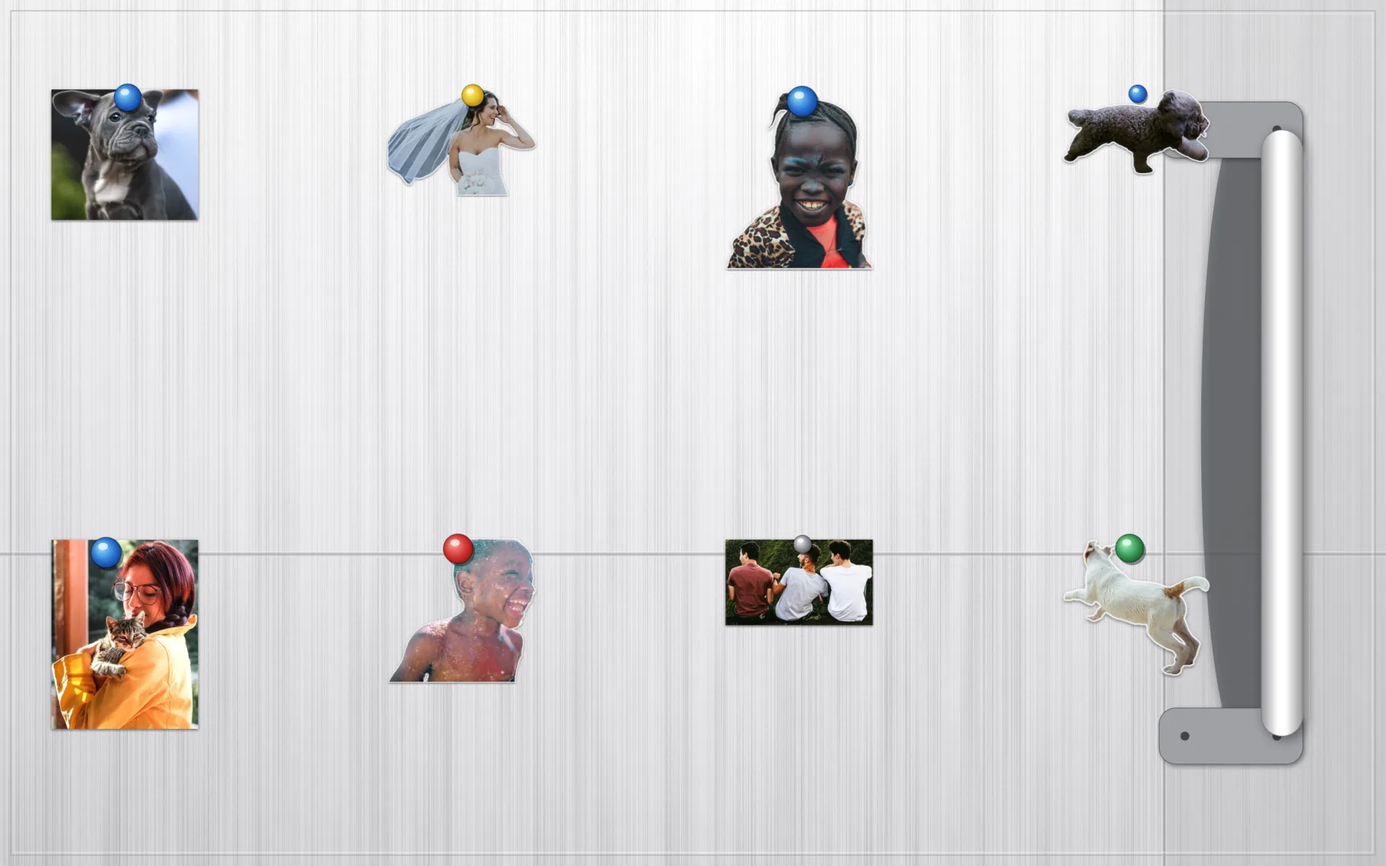
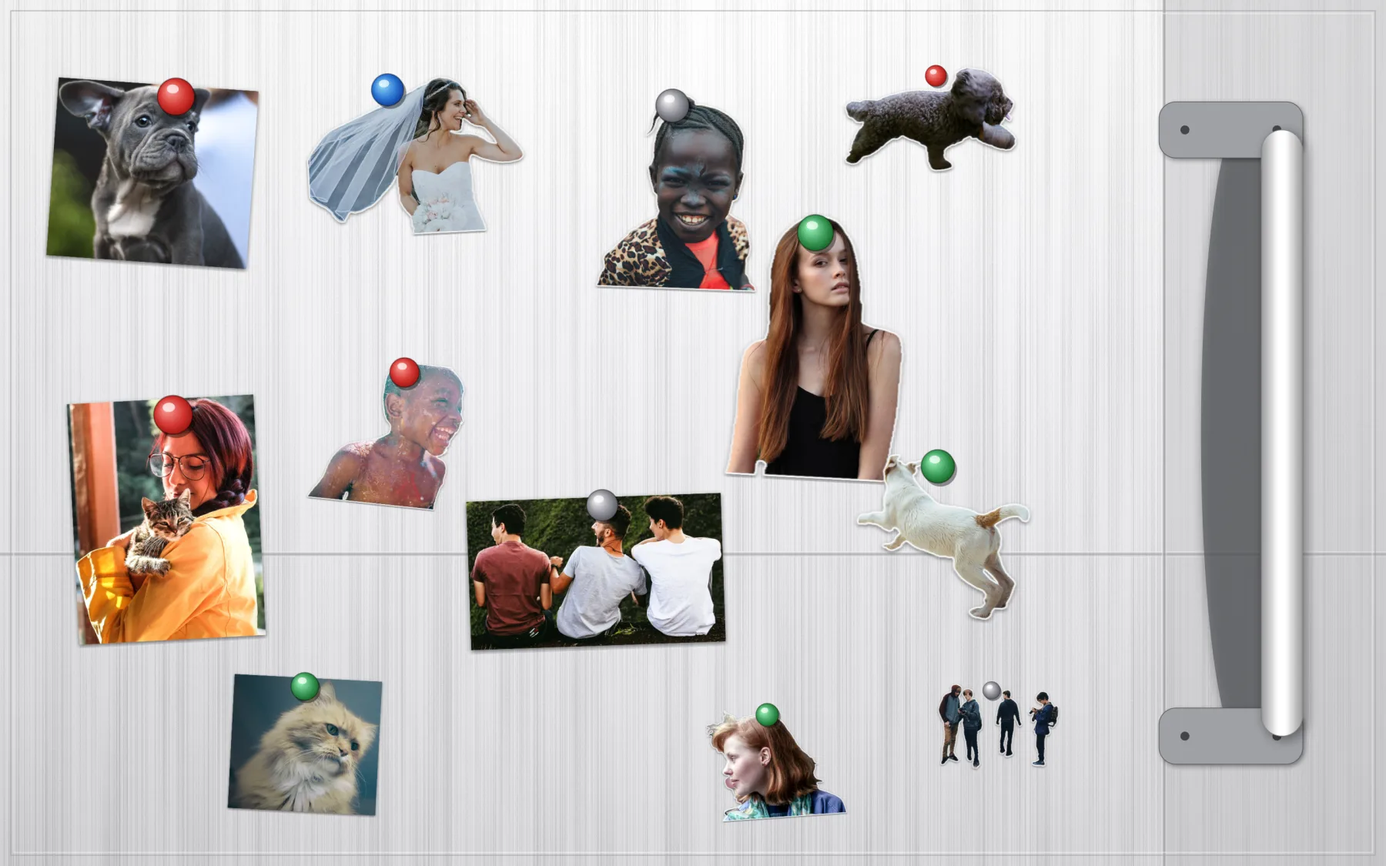
Ideas: corkboard example, free and tidy fridge, fuller month calendar, wider gallery

diff --git a/corkboard-wallpaper.html b/corkboard-wallpaper.html
@@ -1,0 +1,147 @@
+<!doctype html>
+<html lang="en">
+<head>
+  <meta charset="utf-8">
+  <meta name="viewport" content="width=device-width, initial-scale=1">
+  <title>Corkboard Photo Wallpaper for Mac · Sticta</title>
+  <meta name="description" content="Pin your photos on a cork board on your Mac desktop: pushpins, loose overlapping prints and a wooden frame.">
+  <link rel="canonical" href="https://sticta.app/corkboard-wallpaper">
+  <meta property="og:type" content="website">
+  <meta property="og:site_name" content="Sticta">
+  <meta property="og:url" content="https://sticta.app/corkboard-wallpaper">
+  <meta property="og:title" content="Corkboard Photo Wallpaper for Mac · Sticta">
+  <meta property="og:description" content="Pin your photos on a cork board on your Mac desktop: pushpins, loose overlapping prints and a wooden frame.">
+  <meta property="og:image" content="https://sticta.app/assets/ideas/corkboard.webp">
+  <meta property="og:image:width" content="1800">
+  <meta property="og:image:height" content="1125">
+  <meta property="og:image:alt" content="How to make a corkboard photo wallpaper for your Mac">
+  <meta name="twitter:card" content="summary_large_image">
+  <meta name="twitter:creator" content="@maticzechowskii">
+  <meta name="theme-color" content="#D9D3C4" media="(prefers-color-scheme: light)">
+  <meta name="theme-color" content="#17191D" media="(prefers-color-scheme: dark)">
+  <link rel="icon" type="image/png" href="assets/favicon.png">
+  <link rel="apple-touch-icon" href="assets/icon.png">
+  <link rel="preload" href="assets/YoungSerif-Regular.ttf" as="font" type="font/ttf" crossorigin>
+  <link rel="stylesheet" href="style.css?v=9afdb72a">
+  <script type="application/ld+json">
+  {"@context": "https://schema.org", "@type": "Article", "headline": "How to make a corkboard photo wallpaper for your Mac", "description": "Pin your photos on a cork board on your Mac desktop: pushpins, loose overlapping prints and a wooden frame.", "image": "https://sticta.app/assets/ideas/corkboard.webp", "datePublished": "2026-10-13", "author": {"@type": "Person", "name": "Mateusz Czechowski", "url": "https://mateuszczechowski.github.io/"}, "mainEntityOfPage": "https://sticta.app/corkboard-wallpaper"}
+  </script>
+<!-- Page Pulse (privacy-friendly: no cookies, no localStorage/sessionStorage, no persistent visitor ID) -->
+<script>
+(function(){
+  if(window.self!==window.top)return;
+  var pid="4a3903d2-e4a1-46b0-a912-f2eba5350eb7";
+  var tk="bcec4612-bca1-4c6a-8962-24d3207e521b";
+  var ep="https://esnubozrjxrbegatzusu.supabase.co/functions/v1/track";
+  var sid=Math.random().toString(36).slice(2);
+  function send(t,n){
+    fetch(ep,{method:"POST",headers:{"Content-Type":"application/json"},
+      body:JSON.stringify({page_id:pid,token:tk,url:location.href,referrer:document.referrer,
+        user_agent:navigator.userAgent,screen_width:screen.width,
+        session_id:sid,visitor_id:sid,event_type:t,element_name:n||null}),keepalive:true});
+  }
+  send("pageview");
+  document.addEventListener("click",function(e){
+    var el=e.target.closest("a,button,[role='button'],input[type='submit']");
+    if(!el)return;
+    var name=el.getAttribute("data-pp")||el.innerText||el.getAttribute("aria-label")||el.tagName;
+    if(name)send("click",name.trim().substring(0,100));
+  });
+  setInterval(function(){if(!document.hidden)send("ping");},15000);
+  var _v={cls:0,inp:0};
+  try{
+    if(window.PerformanceObserver){
+      try{new PerformanceObserver(function(l){var e=l.getEntries();if(e.length)_v.lcp=Math.round(e[e.length-1].startTime);}).observe({type:"largest-contentful-paint",buffered:true});}catch(e){}
+      try{new PerformanceObserver(function(l){l.getEntries().forEach(function(e){if(!e.hadRecentInput)_v.cls+=e.value;});}).observe({type:"layout-shift",buffered:true});}catch(e){}
+      try{new PerformanceObserver(function(l){l.getEntries().forEach(function(e){if(e.duration>_v.inp)_v.inp=Math.round(e.duration);});}).observe({type:"event",buffered:true,durationThreshold:40});}catch(e){}
+    }
+  }catch(e){}
+  function flushVitals(){
+    if(_v._sent)return;_v._sent=1;
+    try{var nt=performance.getEntriesByType&&performance.getEntriesByType("navigation")[0];if(nt&&nt.loadEventEnd)_v.load=Math.round(nt.loadEventEnd);}catch(e){}
+    var payload={page_id:pid,token:tk,url:location.href,session_id:sid,event_type:"vitals",vitals:{lcp:_v.lcp||null,cls:_v.cls?Math.round(_v.cls*1000)/1000:null,inp:_v.inp||null,load_time:_v.load||null,device_type:(screen.width&&screen.width<768)?"mobile":"desktop"}};
+    try{navigator.sendBeacon(ep,new Blob([JSON.stringify(payload)],{type:"application/json"}));}catch(e){}
+  }
+  addEventListener("visibilitychange",function(){if(document.visibilityState==="hidden")flushVitals();});
+  addEventListener("pagehide",flushVitals);
+})();
+</script>
+</head>
+<body>
+
+<header class="topbar">
+  <nav class="topbar-inner" aria-label="Main">
+    <a class="brand" href="./"><img src="assets/icon.png" alt=""><span>Sticta</span></a>
+    <a class="pill hide-sm" href="./#features">Features</a>
+    <a class="pill hide-sm" href="ideas">Ideas</a>
+    <a class="pill hide-sm" href="./#pricing">Pricing</a>
+    <a class="pill hide-sm" href="support">Support</a>
+    <a class="pill" href="privacy">Privacy</a>
+    <a class="pill cta" href="https://apps.apple.com/app/id6815226547">Download</a>
+    <details class="navmenu">
+      <summary aria-label="Menu"><span></span></summary>
+      <div class="navmenu-panel" onclick="if (event.target.closest('a')) this.parentNode.open = false"><a href="./#features">Features</a><a href="ideas">Ideas</a><a href="./#pricing">Pricing</a><a href="support">Support</a><a href="privacy">Privacy</a></div>
+    </details>
+  </nav>
+</header>
+
+<main>
+  <div class="wrap">
+    <article class="sheet guide" style="margin-top:48px">
+      <span class="tape l"></span><span class="tape r"></span>
+      <p class="meta">Sticta · <a href="ideas">wallpaper ideas</a></p>
+      <h1>How to make a corkboard photo wallpaper for your Mac</h1>
+      <p class="tldr"><strong>In short:</strong> Choose the Corkboard style on the Canvas and drop in your photos. Each one is held by a pushpin and sits a little askew, like a real board in a hallway.</p>
+
+      <div class="clause"><span class="n">01</span><div>
+        <h3>What you end up with</h3>
+        <p>A cork board with a wooden frame in place of your desktop, covered with photos held by coloured pushpins. Cut-outs and prints overlap and sit slightly crooked, because a real board is never tidy.</p>
+        <img class="guide-shot" src="assets/ideas/corkboard.webp" alt="Mac wallpaper made as a cork board with photo stickers and prints held by coloured pushpins" width="1800" height="1125">
+      </div></div>
+
+      <div class="clause"><span class="n">02</span><div>
+        <h3>Make it in Sticta</h3>
+        <ol>
+          <li>Create a project and open the <strong>Canvas</strong>.</li>
+          <li>Pick the <strong>Corkboard</strong> style. Change the look with <strong>Cork tone</strong> and <strong>Frame color</strong>.</li>
+          <li>Drag your photos in. Each sticker gets a pushpin.</li>
+          <li>Drag stickers around, make them bigger or smaller and let some overlap. There is no grid on a corkboard.</li>
+          <li>Click <strong>Set as Wallpaper</strong>.</li>
+        </ol>
+      </div></div>
+
+      <div class="clause"><span class="n">03</span><div>
+        <h3>Mix cut-outs and prints</h3>
+        <p>Want a different look? Select a sticker and pick a style in the inspector: <strong>Classic</strong> (cut-out with an outline), <strong>Polaroid</strong>, <strong>Original photo</strong> (the photo as it was taken, no cut-out) or <strong>Clean cut</strong>. Mixing styles makes a wallpaper feel less uniform.</p><p>On a corkboard, <strong>Original photo</strong> looks like a print pinned to the board and a cut-out like a sticker. The example mixes about half and half.</p>
+      </div></div>
+
+      <div class="clause"><span class="n">04</span><div>
+        <h3>Add a clothesline</h3>
+        <p>A <a href="clothesline-photo-wallpaper">clothesline</a> works on a corkboard too: switch on <strong>Clothesline</strong> in the canvas settings and hang a few photos from it between the pinned ones.</p>
+      </div></div>
+
+      <div class="clause"><span class="n">05</span><div>
+        <h3>Private by design</h3>
+        <p>Sticta never connects to the internet and your photos never leave your Mac. <a href="privacy">Privacy policy</a>.</p>
+      </div></div>
+
+      <div class="actions">
+        <a class="btn" href="https://apps.apple.com/app/id6815226547">Download Sticta on the Mac App Store</a>
+        <a class="btn ghost" href="ideas">More wallpaper ideas</a>
+      </div>
+      <p class="press-note">Free to download · Sticta Unlimited is a one-time purchase · Mac with Apple silicon, macOS 14 or later</p>
+      <p class="press-note">The photos in this example are free CC0 pictures, see <a href="https://github.com/mateuszczechowski/sticta-support/blob/main/assets/home/CREDITS.md">credits</a>.</p>
+    </article>
+  </div>
+</main>
+
+<footer>
+  <div class="wrap foot">
+    <span class="display">Sticta</span>
+    <span>© 2026 <a href="https://mateuszczechowski.github.io/">Mateusz Czechowski</a> · <a href="https://mateuszczechowski.github.io/">More apps by me →</a> · <a href="support">Support</a> · <a href="privacy">Privacy</a> · <a href="press">Press</a> · <a href="mailto:sticta@proton.me">sticta@proton.me</a></span>
+    <a class="fine" href="giveaway">Beta giveaway rules</a>
+  </div>
+</footer>
+
+</body>
+</html>

diff --git a/ideas.html b/ideas.html
@@ -4,13 +4,13 @@
   <meta charset="utf-8">
   <meta name="viewport" content="width=device-width, initial-scale=1">
   <title>Mac Wallpaper Ideas from Your Photos · Sticta</title>
-  <meta name="description" content="Ideas for photo wallpapers on your Mac, each with a step-by-step guide: world map, fridge, calendar, year grid and clothesline.">
+  <meta name="description" content="Ideas for photo wallpapers on your Mac, each with a step-by-step guide: world map, fridge, calendar, year grid, corkboard and clothesline.">
   <link rel="canonical" href="https://sticta.app/ideas">
   <meta property="og:type" content="website">
   <meta property="og:site_name" content="Sticta">
   <meta property="og:url" content="https://sticta.app/ideas">
   <meta property="og:title" content="Mac Wallpaper Ideas from Your Photos · Sticta">
-  <meta property="og:description" content="Ideas for photo wallpapers on your Mac, each with a step-by-step guide: world map, fridge, calendar, year grid and clothesline.">
+  <meta property="og:description" content="Ideas for photo wallpapers on your Mac, each with a step-by-step guide: world map, fridge, calendar, year grid, corkboard and clothesline.">
   <meta property="og:image" content="https://sticta.app/assets/ideas/world-map.webp">
   <meta property="og:image:width" content="1800">
   <meta property="og:image:height" content="1125">
@@ -22,9 +22,9 @@
   <link rel="icon" type="image/png" href="assets/favicon.png">
   <link rel="apple-touch-icon" href="assets/icon.png">
   <link rel="preload" href="assets/YoungSerif-Regular.ttf" as="font" type="font/ttf" crossorigin>
-  <link rel="stylesheet" href="style.css?v=ddfabefe">
+  <link rel="stylesheet" href="style.css?v=9afdb72a">
   <script type="application/ld+json">
-  {"@context": "https://schema.org", "@type": "CollectionPage", "headline": "Wallpaper ideas you can make with Sticta", "description": "Ideas for photo wallpapers on your Mac, each with a step-by-step guide: world map, fridge, calendar, year grid and clothesline.", "image": "https://sticta.app/assets/ideas/world-map.webp", "datePublished": "2026-10-13", "author": {"@type": "Person", "name": "Mateusz Czechowski", "url": "https://mateuszczechowski.github.io/"}, "mainEntityOfPage": "https://sticta.app/ideas"}
+  {"@context": "https://schema.org", "@type": "CollectionPage", "headline": "Wallpaper ideas you can make with Sticta", "description": "Ideas for photo wallpapers on your Mac, each with a step-by-step guide: world map, fridge, calendar, year grid, corkboard and clothesline.", "image": "https://sticta.app/assets/ideas/world-map.webp", "datePublished": "2026-10-13", "author": {"@type": "Person", "name": "Mateusz Czechowski", "url": "https://mateuszczechowski.github.io/"}, "mainEntityOfPage": "https://sticta.app/ideas"}
   </script>
 <!-- Page Pulse (privacy-friendly: no cookies, no localStorage/sessionStorage, no persistent visitor ID) -->
 <script>
@@ -86,12 +86,12 @@
 </header>
 
 <main>
-  <div class="wrap">
-    <article class="sheet guide" style="margin-top:48px">
+  <div class="wrap wide">
+    <article class="sheet guide wide" style="margin-top:48px">
       <span class="tape l"></span><span class="tape r"></span>
       <p class="meta">Sticta · ideas</p>
       <h1>Wallpaper ideas you can make with Sticta</h1>
-      <p class="tldr"><strong>In short:</strong> Five wallpapers made with Sticta from free CC0 photos, each with the steps to make it yourself. Pick one, open Sticta and follow along.</p>
+      <p class="tldr"><strong>In short:</strong> Six wallpapers made with Sticta from free CC0 photos, each with the steps to make it yourself. Pick one, open Sticta and follow along.</p>
       <div class="ideas-grid">
         <a class="idea" href="world-map-wallpaper">
           <img src="assets/ideas/world-map.webp" alt="World map wallpaper made with Sticta" width="1800" height="1125" loading="lazy">
@@ -116,6 +116,12 @@
           <span class="idea-name">Year at a glance</span>
           <span class="idea-line">Twelve months, one grid, a photo in each.</span>
           <span class="idea-where">Timeline · Year</span>
+        </a>
+        <a class="idea" href="corkboard-wallpaper">
+          <img src="assets/ideas/corkboard.webp" alt="Corkboard wallpaper made with Sticta" width="1800" height="1125" loading="lazy">
+          <span class="idea-name">Corkboard</span>
+          <span class="idea-line">Loose prints and cut-outs held by pushpins.</span>
+          <span class="idea-where">Canvas · Corkboard</span>
         </a>
         <a class="idea" href="clothesline-photo-wallpaper">
           <img src="assets/ideas/clothesline.webp" alt="Clothesline wallpaper made with Sticta" width="1800" height="1125" loading="lazy">

diff --git a/fridge-wallpaper.html b/fridge-wallpaper.html
@@ -22,7 +22,7 @@
   <link rel="icon" type="image/png" href="assets/favicon.png">
   <link rel="apple-touch-icon" href="assets/icon.png">
   <link rel="preload" href="assets/YoungSerif-Regular.ttf" as="font" type="font/ttf" crossorigin>
-  <link rel="stylesheet" href="style.css?v=ddfabefe">
+  <link rel="stylesheet" href="style.css?v=9afdb72a">
   <script type="application/ld+json">
   {"@context": "https://schema.org", "@type": "Article", "headline": "How to make a fridge photo wallpaper for your Mac", "description": "Turn your Mac desktop into a fridge covered with photo magnets: pick a fridge colour, drop in your photos and set it as wallpaper.", "image": "https://sticta.app/assets/ideas/fridge.webp", "datePublished": "2026-10-13", "author": {"@type": "Person", "name": "Mateusz Czechowski", "url": "https://mateuszczechowski.github.io/"}, "mainEntityOfPage": "https://sticta.app/fridge-wallpaper"}
   </script>
@@ -111,16 +111,21 @@
       </div></div>
 
       <div class="clause"><span class="n">03</span><div>
-        <h3>Make it look like real prints</h3>
-        <p>Want a different look? Select a sticker and pick a style in the inspector: <strong>Classic</strong> (cut-out with an outline), <strong>Polaroid</strong>, <strong>Original photo</strong> (the photo as it was taken, no cut-out) or <strong>Clean cut</strong>. Mixing styles makes a wallpaper feel less uniform.</p><p>On the fridge, <strong>Original photo</strong> works best for the rectangular prints, and <strong>Classic</strong> for people and pets you want as cut-outs. The example uses both.</p>
+        <h3>Arrange it your way</h3>
+        <p>The first picture is a free arrangement: stickers in different sizes, tilted, overlapping, some in clusters. Drag a corner of a sticker to resize it and use the rotate handle to tilt it.</p><p>Below is the tidy version: every sticker snapped to a slot of the fridge grid, on the <strong>Black</strong> body.</p><img class="guide-shot" src="assets/ideas/fridge-grid.webp" alt="Black fridge wallpaper with photo stickers snapped to a neat grid with magnets" width="1800" height="1125" loading="lazy">
       </div></div>
 
       <div class="clause"><span class="n">04</span><div>
+        <h3>Make it look like real prints</h3>
+        <p>Want a different look? Select a sticker and pick a style in the inspector: <strong>Classic</strong> (cut-out with an outline), <strong>Polaroid</strong>, <strong>Original photo</strong> (the photo as it was taken, no cut-out) or <strong>Clean cut</strong>. Mixing styles makes a wallpaper feel less uniform.</p><p>On the fridge, <strong>Original photo</strong> works best for the rectangular prints, and <strong>Classic</strong> for people and pets you want as cut-outs. The examples use both.</p>
+      </div></div>
+
+      <div class="clause"><span class="n">05</span><div>
         <h3>Make room for the desktop</h3>
         <p>The editor shows where the menu bar, the Dock and desktop icons will sit, so no magnet ends up hidden behind an icon.</p>
       </div></div>
 
-      <div class="clause"><span class="n">05</span><div>
+      <div class="clause"><span class="n">06</span><div>
         <h3>Private by design</h3>
         <p>Sticta never connects to the internet and your photos never leave your Mac. <a href="privacy">Privacy policy</a>.</p>
       </div></div>

diff --git a/month-calendar-wallpaper.html b/month-calendar-wallpaper.html
@@ -22,7 +22,7 @@
   <link rel="icon" type="image/png" href="assets/favicon.png">
   <link rel="apple-touch-icon" href="assets/icon.png">
   <link rel="preload" href="assets/YoungSerif-Regular.ttf" as="font" type="font/ttf" crossorigin>
-  <link rel="stylesheet" href="style.css?v=ddfabefe">
+  <link rel="stylesheet" href="style.css?v=9afdb72a">
   <script type="application/ld+json">
   {"@context": "https://schema.org", "@type": "Article", "headline": "How to make a monthly calendar wallpaper from your photos", "description": "Make a monthly calendar wallpaper for your Mac where each photo lands on the day it was taken.", "image": "https://sticta.app/assets/ideas/timeline-month.webp", "datePublished": "2026-10-13", "author": {"@type": "Person", "name": "Mateusz Czechowski", "url": "https://mateuszczechowski.github.io/"}, "mainEntityOfPage": "https://sticta.app/month-calendar-wallpaper"}
   </script>
@@ -113,7 +113,7 @@
 
       <div class="clause"><span class="n">03</span><div>
         <h3>Change how it looks</h3>
-        <p>Under the layout settings you can change the theme, the font and the frame style. You can also mix sticker styles: select a sticker and pick <strong>Classic</strong>, <strong>Polaroid</strong>, <strong>Original photo</strong> or <strong>Clean cut</strong>. In the example some days have cut-outs and some have the original photo.</p>
+        <p>Under the layout settings you can change the theme, the font and the frame style. You can also mix sticker styles: select a sticker and pick <strong>Classic</strong>, <strong>Polaroid</strong>, <strong>Original photo</strong> or <strong>Clean cut</strong>. In the example nearly every day has a sticker, some cut-outs and some the original photo.</p>
       </div></div>
 
       <div class="clause"><span class="n">04</span><div>

diff --git a/style.css b/style.css
@@ -352,11 +352,13 @@ dl.facts dd { margin: 0; }
 }
 
 /* ---------- ideas gallery ---------- */
-.ideas-grid { display: grid; grid-template-columns: repeat(2, 1fr); gap: 20px; margin: 8px 0 28px; }
+.wrap.wide { max-width: 1320px; }
+.sheet.wide { max-width: 1240px; padding-left: clamp(20px, 4vw, 56px); padding-right: clamp(20px, 4vw, 56px); }
+.ideas-grid { display: grid; grid-template-columns: repeat(2, 1fr); gap: 28px 24px; margin: 8px 0 28px; }
 .idea { display: flex; flex-direction: column; gap: 4px; text-decoration: none; color: var(--ink); }
 .idea img { display: block; width: 100%; height: auto; border-radius: 8px; box-shadow: var(--shadow); transition: transform .15s; }
 .idea:hover img { transform: translateY(-2px); }
 .idea-name { font-weight: 700; font-size: 18px; margin-top: 8px; }
 .idea-line { color: var(--mute); font-size: 15px; }
 .idea-where { color: var(--mute); font-size: 13px; }
-@media (max-width: 640px) { .ideas-grid { grid-template-columns: 1fr; } }
+@media (max-width: 700px) { .ideas-grid { grid-template-columns: 1fr; gap: 24px; } }

diff --git a/travel-map-wallpaper.html b/travel-map-wallpaper.html
@@ -22,7 +22,7 @@
   <link rel="icon" type="image/png" href="assets/favicon.png">
   <link rel="apple-touch-icon" href="assets/icon.png">
   <link rel="preload" href="assets/YoungSerif-Regular.ttf" as="font" type="font/ttf" crossorigin>
-  <link rel="stylesheet" href="style.css?v=ddfabefe">
+  <link rel="stylesheet" href="style.css?v=9afdb72a">
   <script type="application/ld+json">
   {"@context": "https://schema.org", "@type": "Article", "headline": "How to make a travel map wallpaper from your photos", "description": "Make a travel map wallpaper for your Mac: photos of the people you travelled with, pinned to the countries where you took them, with visited countries lit up.", "image": "https://sticta.app/assets/og.jpg", "datePublished": "2026-10-09", "author": {"@type": "Person", "name": "Mateusz Czechowski", "url": "https://mateuszczechowski.github.io/"}, "mainEntityOfPage": "https://sticta.app/travel-map-wallpaper"}
   </script>

diff --git a/year-calendar-wallpaper.html b/year-calendar-wallpaper.html
@@ -22,7 +22,7 @@
   <link rel="icon" type="image/png" href="assets/favicon.png">
   <link rel="apple-touch-icon" href="assets/icon.png">
   <link rel="preload" href="assets/YoungSerif-Regular.ttf" as="font" type="font/ttf" crossorigin>
-  <link rel="stylesheet" href="style.css?v=ddfabefe">
+  <link rel="stylesheet" href="style.css?v=9afdb72a">
   <script type="application/ld+json">
   {"@context": "https://schema.org", "@type": "Article", "headline": "How to make a year-at-a-glance wallpaper from your photos", "description": "Make a whole-year wallpaper for your Mac: twelve months in one grid, with your photos in the month they were taken.", "image": "https://sticta.app/assets/ideas/timeline-year.webp", "datePublished": "2026-10-13", "author": {"@type": "Person", "name": "Mateusz Czechowski", "url": "https://mateuszczechowski.github.io/"}, "mainEntityOfPage": "https://sticta.app/year-calendar-wallpaper"}
   </script>

diff --git a/cut-out-photo-mac.html b/cut-out-photo-mac.html
@@ -22,7 +22,7 @@
   <link rel="icon" type="image/png" href="assets/favicon.png">
   <link rel="apple-touch-icon" href="assets/icon.png">
   <link rel="preload" href="assets/YoungSerif-Regular.ttf" as="font" type="font/ttf" crossorigin>
-  <link rel="stylesheet" href="style.css?v=ddfabefe">
+  <link rel="stylesheet" href="style.css?v=9afdb72a">
   <script type="application/ld+json">
   {"@context": "https://schema.org", "@type": "Article", "headline": "How to cut a person out of a photo on a Mac", "description": "Three ways to cut a person or a pet out of a photo on a Mac: Copy Subject in Photos, Remove Background in Preview, and Sticta for sticker wallpapers.", "image": "https://sticta.app/assets/og.jpg", "datePublished": "2026-10-09", "author": {"@type": "Person", "name": "Mateusz Czechowski", "url": "https://mateuszczechowski.github.io/"}, "mainEntityOfPage": "https://sticta.app/cut-out-photo-mac"}
   </script>

diff --git a/clothesline-photo-wallpaper.html b/clothesline-photo-wallpaper.html
@@ -22,7 +22,7 @@
   <link rel="icon" type="image/png" href="assets/favicon.png">
   <link rel="apple-touch-icon" href="assets/icon.png">
   <link rel="preload" href="assets/YoungSerif-Regular.ttf" as="font" type="font/ttf" crossorigin>
-  <link rel="stylesheet" href="style.css?v=ddfabefe">
+  <link rel="stylesheet" href="style.css?v=9afdb72a">
   <script type="application/ld+json">
   {"@context": "https://schema.org", "@type": "Article", "headline": "How to hang your photos on a clothesline wallpaper", "description": "Hang your photos on a clothesline across your Mac desktop: choose the number of rows, the string and the pegs.", "image": "https://sticta.app/assets/ideas/clothesline.webp", "datePublished": "2026-10-13", "author": {"@type": "Person", "name": "Mateusz Czechowski", "url": "https://mateuszczechowski.github.io/"}, "mainEntityOfPage": "https://sticta.app/clothesline-photo-wallpaper"}
   </script>

diff --git a/world-map-wallpaper.html b/world-map-wallpaper.html
@@ -22,7 +22,7 @@
   <link rel="icon" type="image/png" href="assets/favicon.png">
   <link rel="apple-touch-icon" href="assets/icon.png">
   <link rel="preload" href="assets/YoungSerif-Regular.ttf" as="font" type="font/ttf" crossorigin>
-  <link rel="stylesheet" href="style.css?v=ddfabefe">
+  <link rel="stylesheet" href="style.css?v=9afdb72a">
   <script type="application/ld+json">
   {"@context": "https://schema.org", "@type": "Article", "headline": "How to make a world map wallpaper with your photos", "description": "Make a world map wallpaper for your Mac: photos pinned to the countries you have visited, which light up on the map.", "image": "https://sticta.app/assets/ideas/world-map.webp", "datePublished": "2026-10-13", "author": {"@type": "Person", "name": "Mateusz Czechowski", "url": "https://mateuszczechowski.github.io/"}, "mainEntityOfPage": "https://sticta.app/world-map-wallpaper"}
   </script>

diff --git a/beta.html b/beta.html
@@ -22,7 +22,7 @@
   <link rel="icon" type="image/png" href="assets/favicon.png">
   <link rel="apple-touch-icon" href="assets/icon.png">
   <link rel="preload" href="assets/YoungSerif-Regular.ttf" as="font" type="font/ttf" crossorigin>
-  <link rel="stylesheet" href="style.css?v=ddfabefe">
+  <link rel="stylesheet" href="style.css?v=9afdb72a">
 <!-- Page Pulse (privacy-friendly: no cookies, no localStorage/sessionStorage, no persistent visitor ID) -->
 <script>
 (function(){

diff --git a/giveaway.html b/giveaway.html
@@ -22,7 +22,7 @@
   <link rel="icon" type="image/png" href="assets/favicon.png">
   <link rel="apple-touch-icon" href="assets/icon.png">
   <link rel="preload" href="assets/YoungSerif-Regular.ttf" as="font" type="font/ttf" crossorigin>
-  <link rel="stylesheet" href="style.css?v=ddfabefe">
+  <link rel="stylesheet" href="style.css?v=9afdb72a">
 <!-- Page Pulse (privacy-friendly: no cookies, no localStorage/sessionStorage, no persistent visitor ID) -->
 <script>
 (function(){
